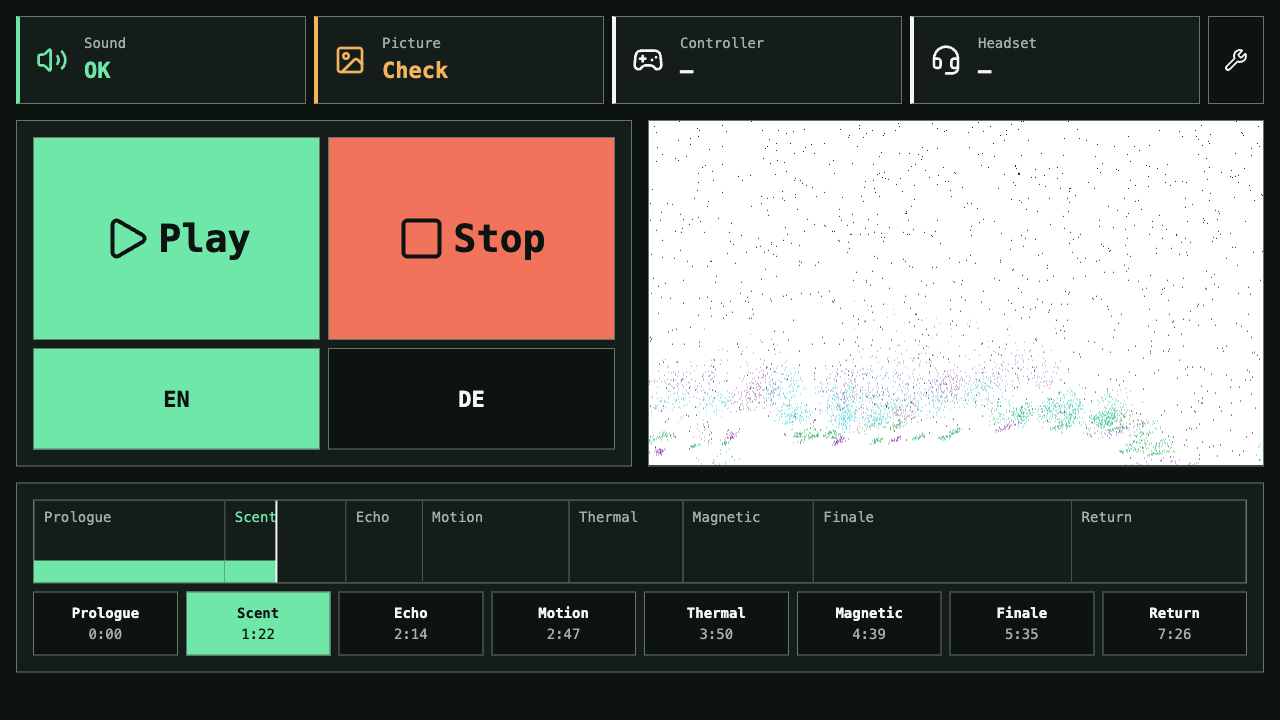
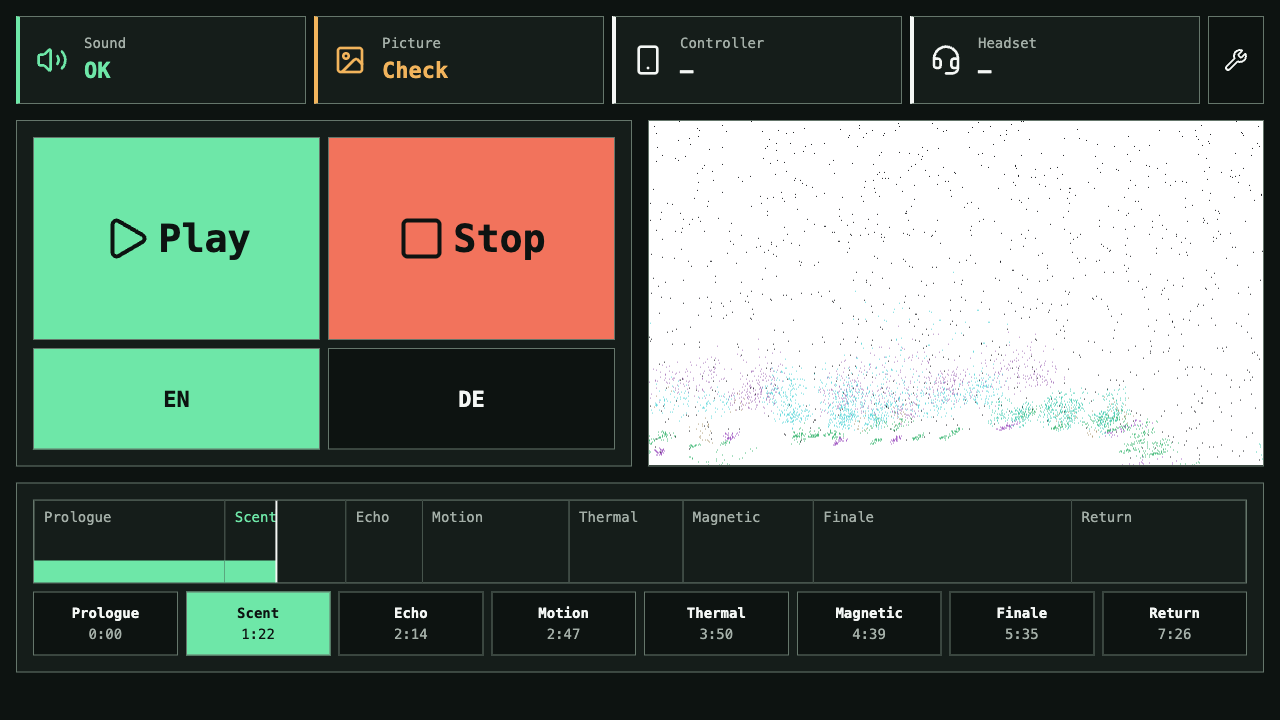
fix: 🐛 preserve playback when switching narration language

Changed region(s): [[0.5, 0.4889, 0.9375, 0.6417], [0.4688, 0.0611, 0.5312, 0.1222]]

diff --git a/tests/browser/run-browser-smoke.ts b/tests/browser/run-browser-smoke.ts
@@ -400,12 +400,25 @@ async function checkRehearsal(page: Page): Promise<void> {
     .locator('button[aria-pressed="true"]')
     .filter({ hasText: /^DE$/ })
     .waitFor();
-  await page.waitForFunction(() => window.show?.sample().isPlaying === false);
+  assert.equal(
+    await page.evaluate(() => window.show?.sample().isPlaying),
+    true,
+  );
   await page.getByRole("button", { name: "EN", exact: true }).click();
   await page
     .locator('button[aria-pressed="true"]')
     .filter({ hasText: /^EN$/ })
     .waitFor();
+  assert.equal(
+    await page.evaluate(() => window.show?.sample().isPlaying),
+    true,
+  );
+  await page.waitForFunction(
+    (before) => (window.show?.sample().timeSeconds ?? 0) > (before ?? 0) + 0.4,
+    pausedTime,
+  );
+  await page.getByRole("button", { name: "Hold", exact: true }).click();
+  await page.waitForFunction(() => window.show?.sample().isPlaying === false);
   await page.getByRole("button", { name: "Echo", exact: true }).click();
   await page.waitForFunction(
     (seconds) => window.show?.sample().timeSeconds === seconds,
@@ -470,31 +483,57 @@ async function observeConductorTime(
 /** Native focused controls and global transport shortcuts must both remain usable. */
 async function checkConductorKeyboard(page: Page): Promise<void> {
   const transport = page.locator(".conductor__transport-button");
-  for (const language of ["de", "en"] as const) {
-    // Let this language's preload finish before replacing its audio elements.
-    const recordings = Promise.all(
-      PIECE_SCHEDULE.narration.map((cue) =>
-        page.waitForEvent("requestfinished", {
-          predicate: (request) =>
-            new URL(request.url()).pathname ===
-            narrationUrl(cue.cueId, language),
-        }),
-      ),
-    );
-    const button = page.getByRole("button", {
-      name: language.toUpperCase(),
-      exact: true,
-    });
-    await button.press("Space");
-    await recordings;
-    await page.waitForFunction(
-      (name) =>
-        document
-          .querySelector(`[data-language="${name}"]`)
-          ?.getAttribute("aria-pressed") === "true",
-      language.toLowerCase(),
-    );
-    assert.equal(await transport.getAttribute("data-playing"), "false");
+  for (const isPlaying of [true, false]) {
+    await transport.click();
+    await page
+      .locator(`.conductor__transport-button[data-playing="${isPlaying}"]`)
+      .waitFor();
+    for (const language of ["de", "en"] as const) {
+      // Let this language's preload finish before replacing its audio elements.
+      const recordings = Promise.all(
+        PIECE_SCHEDULE.narration.map((cue) =>
+          page.waitForEvent("requestfinished", {
+            predicate: (request) =>
+              new URL(request.url()).pathname ===
+              narrationUrl(cue.cueId, language),
+          }),
+        ),
+      );
+      const before = await observeConductorTime(page);
+      const button = page.getByRole("button", {
+        name: language.toUpperCase(),
+        exact: true,
+      });
+      await button.press("Space");
+      await recordings;
+      await page.waitForFunction(
+        (name) =>
+          document
+            .querySelector(`[data-language="${name}"]`)
+            ?.getAttribute("aria-pressed") === "true",
+        language.toLowerCase(),
+      );
+      assert.equal(
+        await transport.getAttribute("data-playing"),
+        String(isPlaying),
+      );
+      if (isPlaying) {
+        await page.waitForFunction(
+          ({ before, durationSeconds }) => {
+            const position = document
+              .querySelector(".timeline__playhead")
+              ?.getAttribute("x1");
+            return (
+              (Number.parseFloat(position ?? "") / 100) * durationSeconds >
+              before + 0.2
+            );
+          },
+          { before, durationSeconds: PIECE_SCHEDULE.durationSeconds },
+        );
+      } else {
+        assert.equal(await observeConductorTime(page), before);
+      }
+    }
   }
   await transport.press("Space");
   await page

diff --git a/tests/sound/drone-organ-composition.test.ts b/tests/sound/drone-organ-composition.test.ts
@@ -225,11 +225,18 @@ test("audio owners recover gesture resume and await complete disposal", async ()
     commands.togglePlayback();
     assert.equal(commands.sample().isPlaying, true);
     commands.setLanguage("de");
-    assert.equal(commands.sample().isPlaying, false);
+    assert.equal(commands.sample().isPlaying, true);
     assert.equal(commands.sample().timeSeconds, 17);
     assert.equal(commands.readLanguage(), "de");
     commands.setLanguage("de");
     assert.equal(narrationUnloads, 1); assert.equal(narrationCount, 2);
+    showNative.currentTime = 4;
+    assert.deepEqual(commands.sample(), { timeSeconds: 19, isPlaying: true, timeScale: 2 });
+    commands.pause(); commands.setLanguage("en");
+    showNative.currentTime = 5;
+    assert.deepEqual(commands.sample(), { timeSeconds: 19, isPlaying: false, timeScale: 2 });
+    assert.equal(commands.readLanguage(), "en");
+    assert.equal(narrationUnloads, 2); assert.equal(narrationCount, 3);
     commands.play(); commands.resetTime();
     assert.deepEqual(commands.sample(), { timeSeconds: 0, isPlaying: false, timeScale: 2 });
     failNarrationCleanup = true;
@@ -239,7 +246,7 @@ test("audio owners recover gesture resume and await complete disposal", async ()
     assert.equal(organEnded, true);
     assert.equal(showNative.closing, true);
     show.update(); show.running.setLanguage("en");
-    assert.equal(follows, 0); assert.equal(narrationCount, 2);
+    assert.equal(follows, 0); assert.equal(narrationCount, 3);
     releaseOrgan(); showNative.release(); await showFailure;
     const invalidStart = createShowRuntime(
       { schedule: { ...PIECE_SCHEDULE, durationSeconds: -1 }, language: "en", states: SHOW_LEVEL_STATES },

diff --git a/src/ui/conductor/conductor.page.ts b/src/ui/conductor/conductor.page.ts
@@ -1,11 +1,11 @@
 /** Mount the operator UI against existing owner commands and observations. */
 
 import alarmClockIcon from "lucide-static/icons/alarm-clock.svg?no-inline";
-import gamepad2Icon from "lucide-static/icons/gamepad-2.svg?no-inline";
 import headsetIcon from "lucide-static/icons/headset.svg?no-inline";
 import imageIcon from "lucide-static/icons/image.svg?no-inline";
 import pauseIcon from "lucide-static/icons/pause.svg?no-inline";
 import playIcon from "lucide-static/icons/play.svg?no-inline";
+import smartphoneIcon from "lucide-static/icons/smartphone.svg?no-inline";
 import squareIcon from "lucide-static/icons/square.svg?no-inline";
 import volume2Icon from "lucide-static/icons/volume-2.svg?no-inline";
 import wrenchIcon from "lucide-static/icons/wrench.svg?no-inline";
@@ -88,11 +88,11 @@ export function mountConductorPage({
     // Vite resolves imported SVG URLs consistently in development and production.
     for (const [name, url] of Object.entries({
       "alarm-clock": alarmClockIcon,
-      "gamepad-2": gamepad2Icon,
       headset: headsetIcon,
       image: imageIcon,
       pause: pauseIcon,
       play: playIcon,
+      smartphone: smartphoneIcon,
       square: squareIcon,
       "volume-2": volume2Icon,
       wrench: wrenchIcon,

diff --git a/src/levels/show.runtime.ts b/src/levels/show.runtime.ts
@@ -60,6 +60,7 @@ export interface RunningShow {
   readonly resetTime: () => void;
   readonly readLanguage: () => NarrationLanguage;
   readonly readActiveLevel: () => ShowLevelName;
+  /** Replace narration at the current position without changing playback state. */
   readonly setLanguage: (language: NarrationLanguage) => void;
   readonly readAudioState: () => AudioContextState;
 }
@@ -333,7 +334,6 @@ export async function createShowRuntime(
         setLanguage: (next): void => {
           if (unloading || next === language) return;
 
-          clock.pause();
           narration?.unload();
           language = next;
           narration = createNarrationPlayer({ language, cueIds });

diff --git a/src/ui/conductor.html b/src/ui/conductor.html
@@ -53,7 +53,7 @@
               viewBox="0 0 24 24"
               aria-hidden="true"
             >
-              <use data-icon="gamepad-2"></use>
+              <use data-icon="smartphone"></use>
             </svg>
             <div class="conductor__tile-body">
               <span class="conductor__tile-label">Controller</span

diff --git a/docs/evidence/conductor-ui/design-qa.md b/docs/evidence/conductor-ui/design-qa.md
@@ -69,4 +69,17 @@ Screenshots: [desktop](conductor-1672.png), [1280px](conductor-1280.png),
 [narrow](conductor-390.png), [menu desktop](conductor-technician-desktop.png),
 [menu narrow](conductor-technician-mobile.png), [M5 preview](conductor-technician.png).
 
+## Follow-up: language continuity and controller icon
+
+Language selection now replaces narration without pausing the Show clock.
+Running and paused states, current position and rate are preserved at the Show
+owner. The M5 controller uses Lucide's rectangular `smartphone` glyph with a small
+button instead of `gamepad-2`; existing icon size, status color and CSS are retained.
+
+`bun run lint`, `bun run build` and 38 focused sound/clock/Conductor tests passed.
+The [six selected browser scenarios](language-smoke.json) passed, including EN/DE
+switches in running and paused Conductor states, continuous Rehearsal playback,
+icon geometry, and startup/partial-mount cleanup. Source digest:
[1 lines of base64/hex data omitted]
+
 final result: passed

diff --git a/docs/target-architecture.md b/docs/target-architecture.md
@@ -336,8 +336,8 @@ flight or turn every ambient simulation into a show-time replay.
 
 Buttons/keys call owner commands. Playback toggles read current Show state,
 not a rendered snapshot. Seek changes the one clock; next update derives fades
-and passage position without replaying events. Language change pauses once,
-unloads old narration and rearms the selected language at the same time.
+and passage position without replaying events. Language change preserves playback state,
+unloads old narration and rearms the selected language at the current show time.
 
 The existing Runtime owns the complete visitor restart: end the old run and
 prepare a fresh run. Retaining the old world by seeking zero and resetting

diff --git a/src/ui/conductor/README.md b/src/ui/conductor/README.md
@@ -25,7 +25,7 @@ in `dramaturgy`; device validity remains in M5.
 
 Play/Pause toggles playback. Stop immediately rewinds, resets flight and pauses
 through Run; the selected language is retained. The timeline is the only time
-display. Language selection sits below transport; the canvas stays in the main
+display. Language changes preserve playback and show position. Language selection sits below transport; the canvas stays in the main
 surface when technician tools open or close. The timeline exposes its position
 as a keyboard-accessible slider: arrow keys seek by five seconds (thirty with
 Shift), Home and End jump to the bounds. Its geometry follows Show time directly.

diff --git a/docs/direction/dramaturgy-audio.md b/docs/direction/dramaturgy-audio.md
@@ -9,8 +9,8 @@ the same show time.
 
 English and German share cue timing. Language selects assets addressed by cue
 id; `script/en.md` and `script/de.md` remain the authoritative wording. Changing
-language re-arms narration at the current time and pauses the show for an
-explicit restart.
+language re-arms narration at the current show time. A running show continues;
+a paused show stays paused.
 
 Narration playback supplies the audio timebase. Pause, seek, and rehearsal
 speed therefore keep sound and visuals aligned. A suspended browser audio
